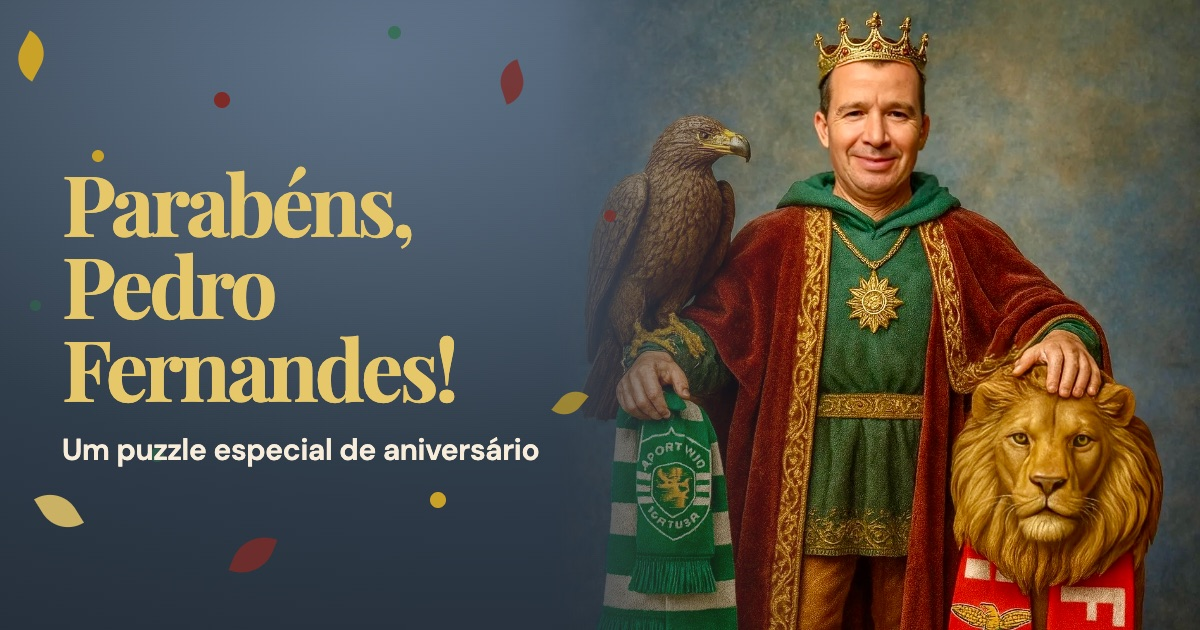
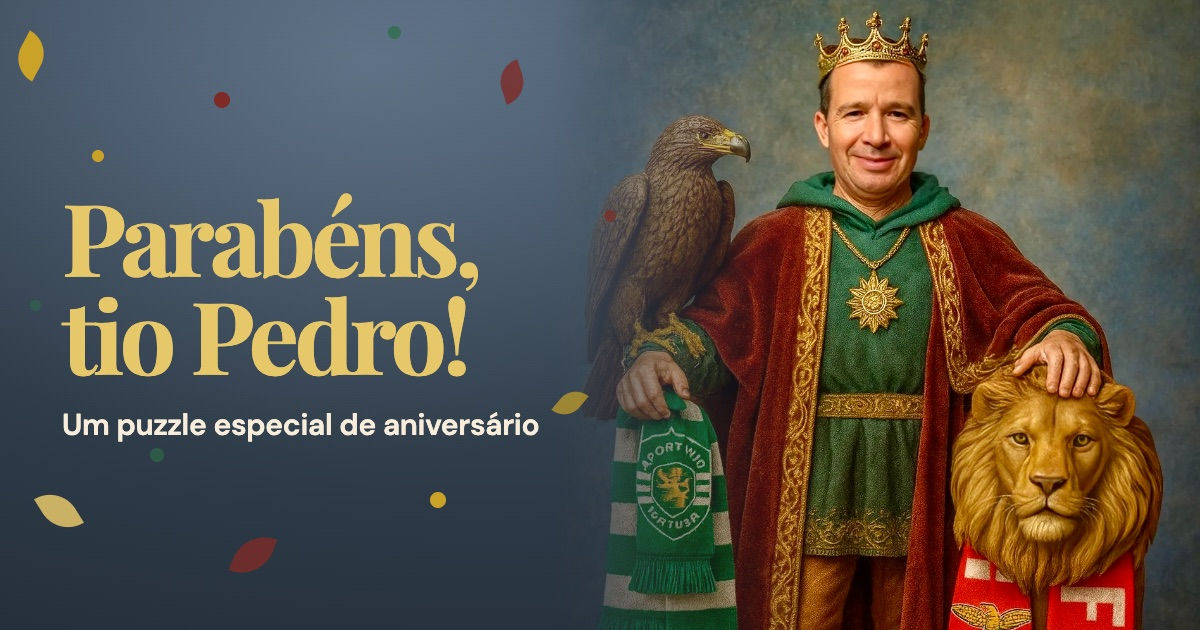
Fix: Adjusting text for the link preview.

Changed region(s): [[0.0308, 0.2714, 0.4625, 0.754]]

diff --git a/puzzles/pedro-fernandes/index.html b/puzzles/pedro-fernandes/index.html
@@ -10,18 +10,18 @@
     <meta property="og:type" content="website" />
     <meta property="og:locale" content="pt_PT" />
     <meta property="og:url" content="https://duquevieira.github.io/Birthdays/puzzles/pedro-fernandes/" />
-    <meta property="og:title" content="Parabéns, Pedro Fernandes! 🎂" />
+    <meta property="og:title" content="Parabéns, tio Pedro! 🎂" />
     <meta property="og:description" content="Que este novo ano seja digno de um rei. Muitos parabéns, Pedro!" />
     <meta property="og:image" content="https://duquevieira.github.io/Birthdays/puzzles/pedro-fernandes/assets/og-image.jpg" />
     <meta property="og:image:type" content="image/jpeg" />
     <meta property="og:image:width" content="1200" />
     <meta property="og:image:height" content="630" />
-    <meta property="og:image:alt" content="Parabéns, Pedro Fernandes — um puzzle especial de aniversário" />
+    <meta property="og:image:alt" content="Parabéns, tio Pedro — um puzzle especial de aniversário" />
     <meta name="twitter:card" content="summary_large_image" />
-    <meta name="twitter:title" content="Parabéns, Pedro Fernandes! 🎂" />
+    <meta name="twitter:title" content="Parabéns, tio Pedro! 🎂" />
     <meta name="twitter:description" content="Que este novo ano seja digno de um rei. Muitos parabéns, Pedro!" />
     <meta name="twitter:image" content="https://duquevieira.github.io/Birthdays/puzzles/pedro-fernandes/assets/og-image.jpg" />
-    <title>Parabéns, Pedro Fernandes! 🎂</title>
+    <title>Parabéns, tio Pedro! 🎂</title>
     <style>
       @import url("https://fonts.googleapis.com/css2?family=DM+Sans:wght@400;600;700&family=Playfair+Display:ital,wght@0,700;1,700&display=swap");
 
@@ -595,7 +595,7 @@
 
       <main>
         <p class="eyebrow">Um dia muito especial</p>
-        <h1>Parabéns, <em>Pedro Fernandes!</em></h1>
+        <h1>Parabéns, <em>tio Pedro!</em></h1>
 
         <section class="game-card" aria-label="Puzzle de aniversário">
           <div class="scoreboard" aria-live="polite">
@@ -636,7 +636,7 @@
         <i class="burst" aria-hidden="true"></i>
         <span class="celebration-emoji" aria-hidden="true">👑</span>
         <h2 id="celebrationTitle">Conseguiste!</h2>
-        <p id="celebrationText">Muitos parabéns, Pedro Fernandes! Que este novo ano seja digno de um rei: cheio de vitórias, boa disposição e momentos inesquecíveis.</p>
+        <p id="celebrationText">Muitos parabéns, tio Pedro! Que este novo ano seja digno de um rei: cheio de vitórias, boa disposição e momentos inesquecíveis.</p>
         <button class="celebration-button" id="playAgainButton" type="button">Jogar outra vez</button>
       </div>
     </div>
@@ -647,7 +647,7 @@
 
         // Tudo o que muda de puzzle para puzzle vive aqui.
         const PUZZLE = {
-          name: "Pedro Fernandes",
+          name: "tio Pedro",
           wish: "Que este novo ano seja digno de um rei: cheio de vitórias, boa disposição e momentos inesquecíveis.",
           photo: "./assets/photo.jpg",
         };

diff --git a/puzzles/pedro-fernandes/pedro-fernandes.test.js b/puzzles/pedro-fernandes/pedro-fernandes.test.js
@@ -7,7 +7,7 @@ import { fileURLToPath } from "node:url";
 import { JSDOM } from "jsdom";
 import { afterEach, describe, expect, it } from "vitest";
 
-const PERSON = "Pedro Fernandes";
+const PERSON = "tio Pedro";
 const SLUG = "pedro-fernandes";
 const SIZE = 4;
 const TOTAL = SIZE * SIZE;
